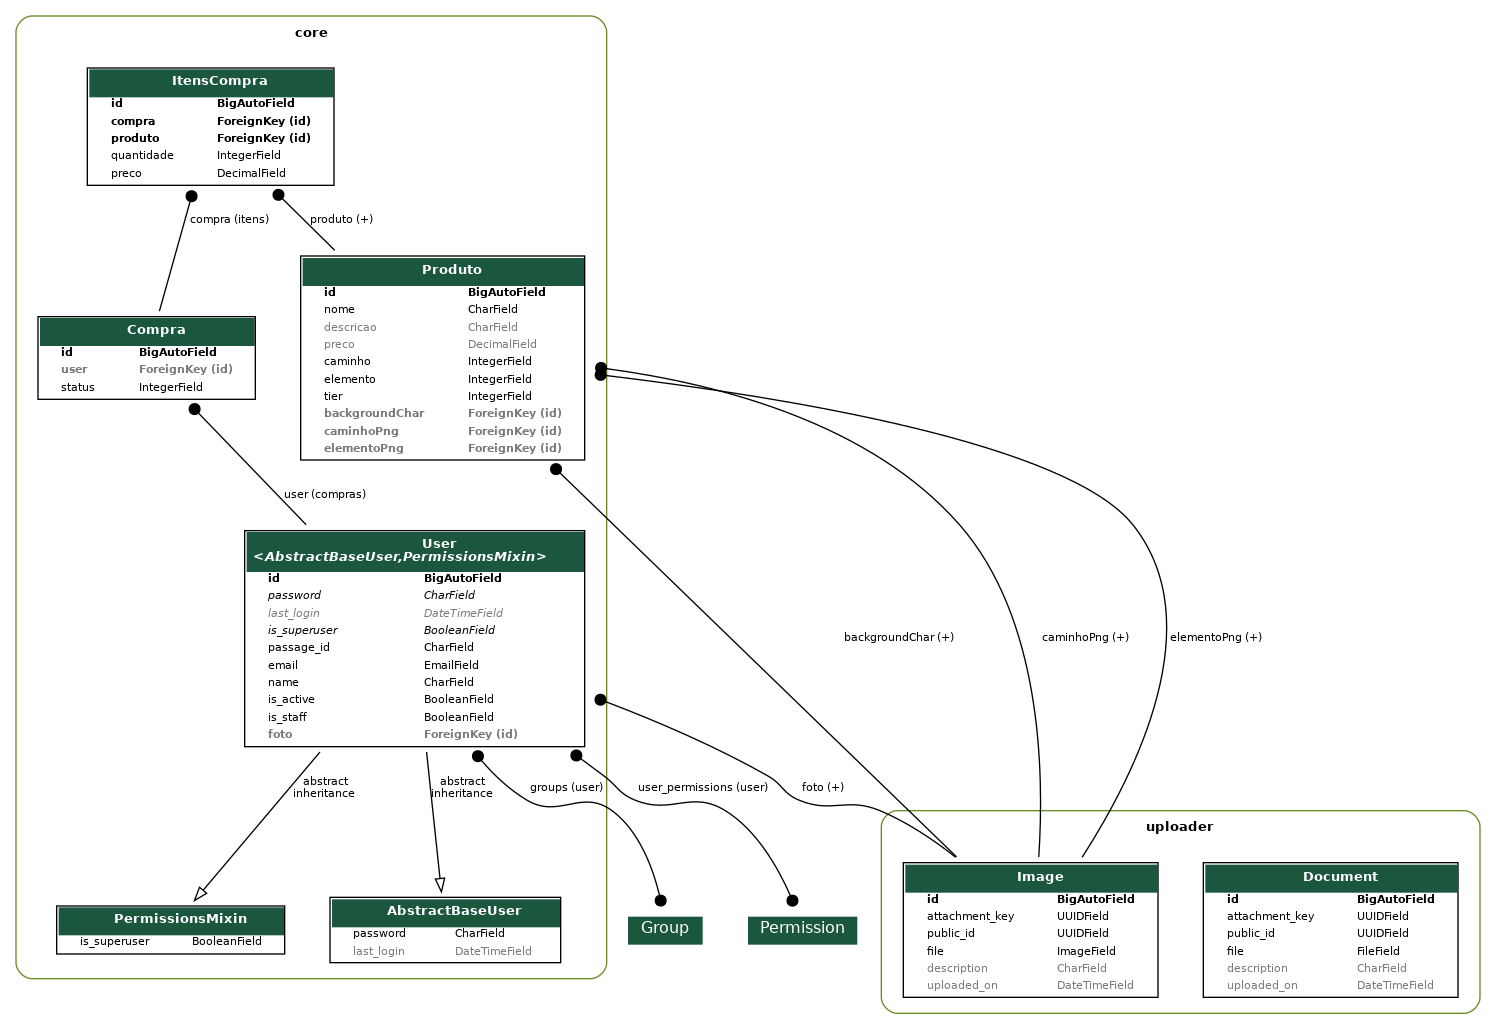
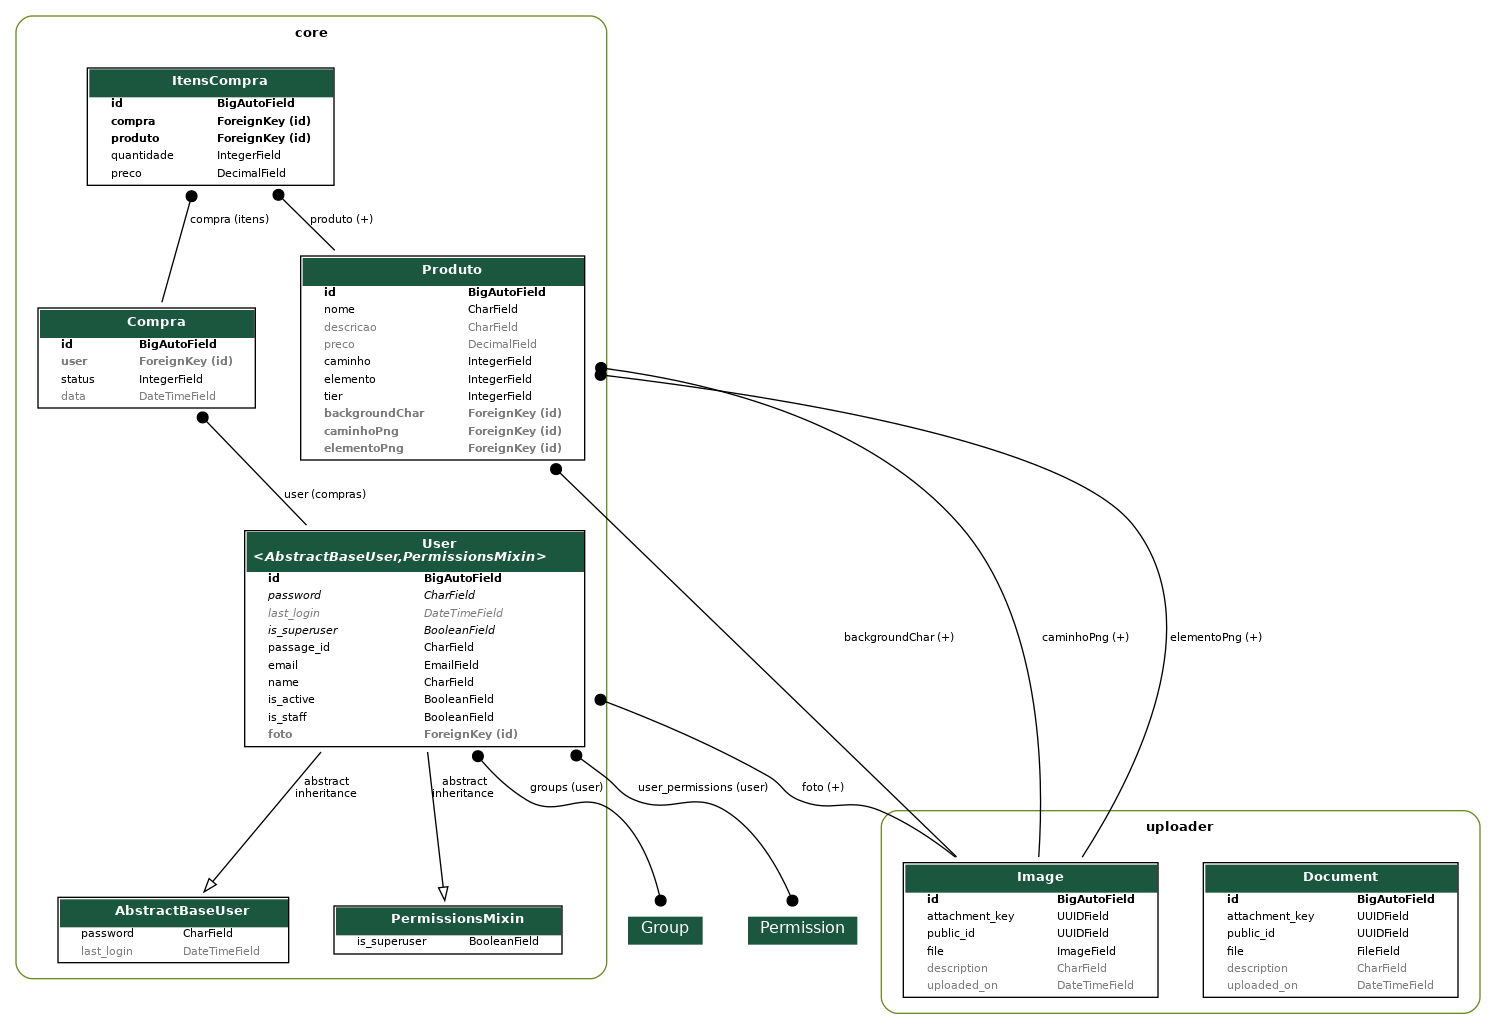
Acrescentando a data da compra

diff --git a/core/serializers/compra.py b/core/serializers/compra.py
@@ -1,10 +1,11 @@
 from rest_framework.serializers import (
     CharField,
     CurrentUserDefault,
+    DateTimeField,
     HiddenField,
     ModelSerializer,
     SerializerMethodField,
-    ValidationError, # novo
+    ValidationError,
 )
 
 from core.models import Compra, ItensCompra
@@ -40,11 +41,12 @@ class CriarEditarItensCompraSerializer(ModelSerializer):
 class CompraSerializer(ModelSerializer):
     usuario = CharField(source="user.email", read_only=True)
     status = CharField(source="get_status_display", read_only=True)
+    data = DateTimeField(read_only=True)
     itens = ItensCompraSerializer(read_only=True, many=True)
 
     class Meta:
         model = Compra
-        # fields = ("id", "usuario", "status", "total", "itens")
+        # fields = ("id", "usuario", "status", "total", "data", "itens")
         fields = "__all__"
 
 class CriarEditarCompraSerializer(ModelSerializer):

diff --git a/core/migrations/0016_compra_data.py b/core/migrations/0016_compra_data.py
@@ -1,0 +1,20 @@
+# Generated by Django 5.1 on 2024-12-05 11:58
+
+import django.utils.timezone
+from django.db import migrations, models
+
+
+class Migration(migrations.Migration):
+
+    dependencies = [
+        ("core", "0015_itenscompra_preco"),
+    ]
+
+    operations = [
+        migrations.AddField(
+            model_name="compra",
+            name="data",
+            field=models.DateTimeField(auto_now_add=True, default=django.utils.timezone.now),
+            preserve_default=False,
+        ),
+    ]

diff --git a/core/models/compra.py b/core/models/compra.py
@@ -12,6 +12,7 @@ class Compra(models.Model):
 
     user = models.ForeignKey(User, on_delete=models.PROTECT, related_name="compras", blank=True, null=True)
     status = models.IntegerField(choices=StatusCompra.choices,  default=StatusCompra.CARRINHO)
+    data = models.DateTimeField(auto_now_add=True)
 
     @property
     def total(self):
